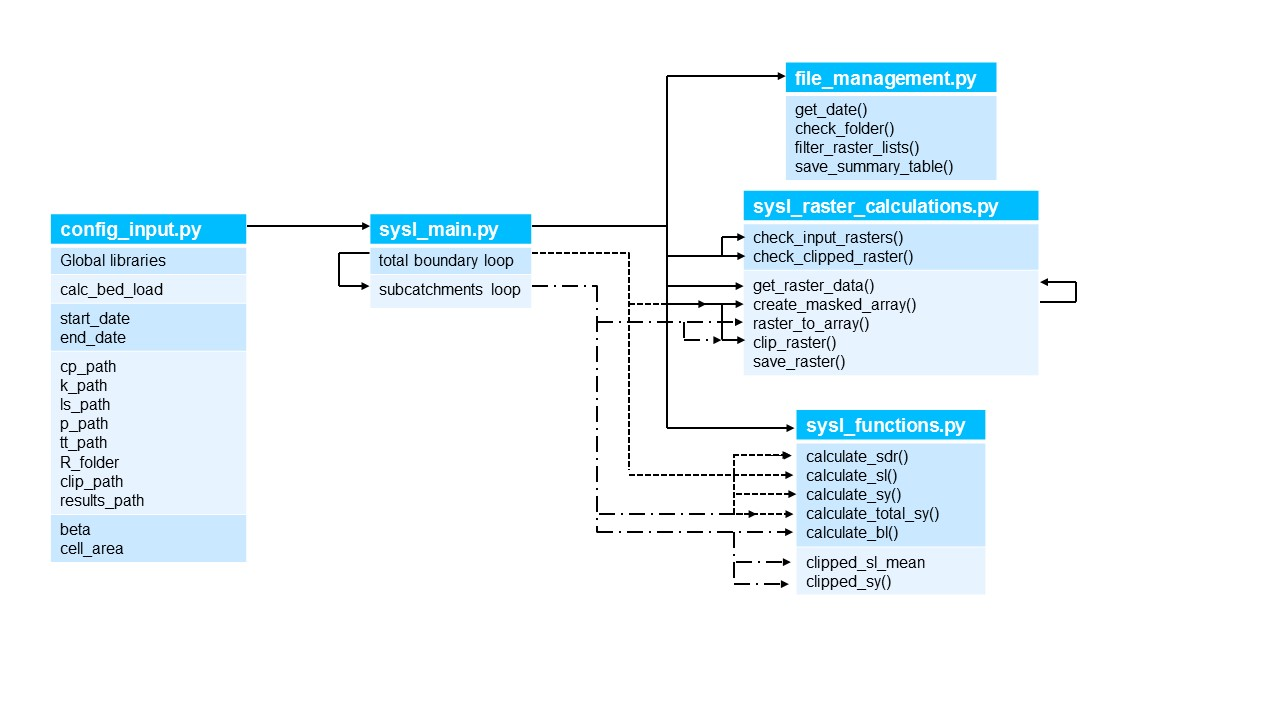
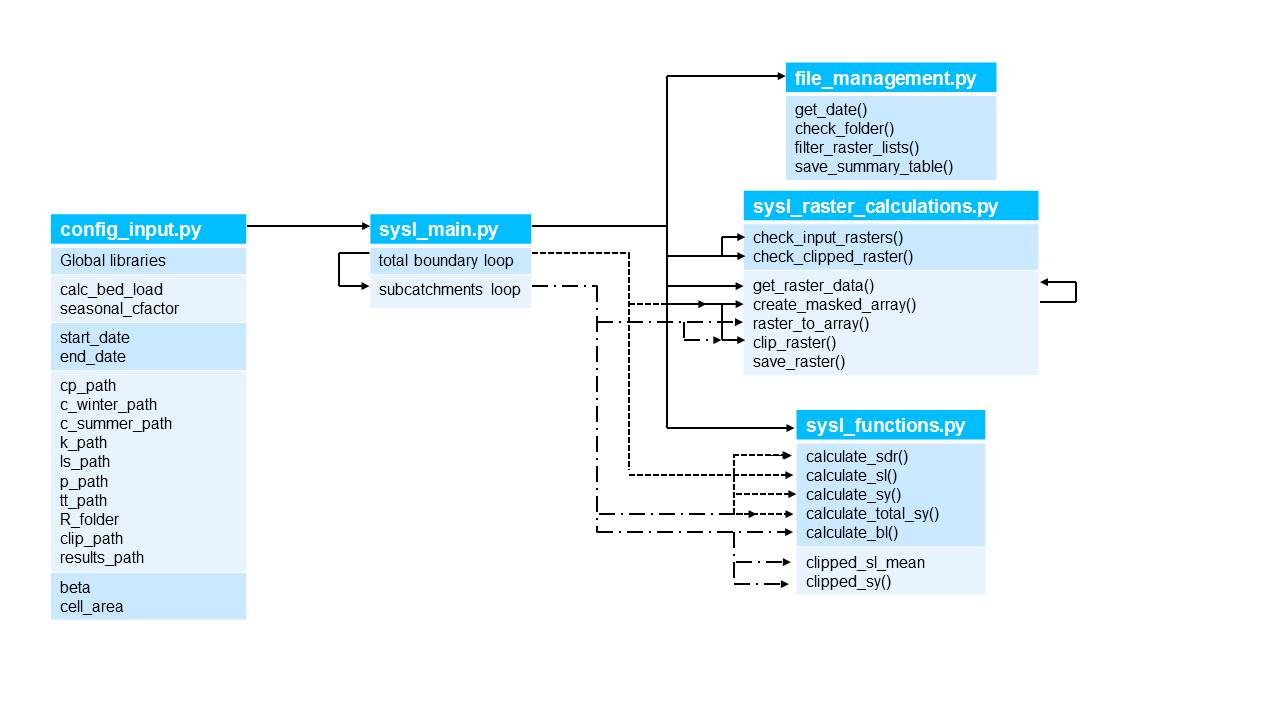
minor updates readme, documentation

diff --git a/config.py b/config.py
@@ -32,6 +32,8 @@ and added to the results table for each subcatchment.
 * Input rasters:
     *All rasters must have the same extent, pixel size (resolution) 
 - cp_path: string, path for the land cover factor (.tif format)
+- c_winter_path: string, path for the seasonal land cover factor (.tif format; if seasonal_cfactor = True)
+- c_summer_path: string, path for the seasonal land cover factor (.tif format; if seasonal_cfactor = True)
 - k_path: string, path for the soil erodibility factor (.tif format)
 - ls_path: string, path for the slope length and steepness factor (.tif format)
 - p_path: string, path for the support practice factor (.tif format)
@@ -63,26 +65,26 @@ calc_bed_load = True
 seasonal_cfactor = True
 
 # Import input rasters:
-k_path = r'Y:\Abt1\hiwi\Oreamuno\SY_062016_082019\Rasters\kfac_st_snap.tif'
-ls_path = r'Y:\Abt1\hiwi\Oreamuno\SY_062016_082019\Rasters\LS_V11b.tif'
-p_path = r'Y:\Abt1\hiwi\Oreamuno\SY_062016_082019\Rasters\p_factor.tif'
-tt_path = r'Y:\Abt1\hiwi\Oreamuno\SY_062016_082019\Rasters\traveltime_final_h_snap.tif'
+k_path = r''
+ls_path = r''
+p_path = r'
+tt_path = r''
 
 if seasonal_cfactor:
     print('Seasonal C factor')
-    c_winter_path = r'P:\aktiv\2018_DLR_DIRT-X\300_Modelling\310_Models\01_Erosion_model\18b_SeasonalC_runs\Rasters\C_winter_resampled.tif'
-    c_summer_path = r'P:\aktiv\2018_DLR_DIRT-X\300_Modelling\310_Models\01_Erosion_model\18b_SeasonalC_runs\Rasters\C_summer_resampled.tif'
+    c_winter_path = r''
+    c_summer_path = r''
 else:
-    cp_path = r'Y:\Abt1\hiwi\Oreamuno\SY_062016_082019\Rasters\Cp_Mean_snap.tif'
+    cp_path = r''
 
 # Rfactor rasters:
-r_folder = r'P:\aktiv\2018_DLR_DIRT-X\300_Modelling\310_Models\01_Erosion_model\18_SY_052016_042018\Modified_R_new_snowdetection\daily_input_final'
+r_folder = r''
 
 # Clipping shape:
-clip_path = r'Y:\Abt1\hiwi\Oreamuno\SY_062016_082019\Clipping_Shapes'
+clip_path = r''
 
 # Results:
-results_path = r'C:\Users\Mouris\Desktop\SY_SL_Calculation_Git\results'
+results_path = r''
 
 # Calculation constants:
 beta = 0.5639

diff --git a/README.md b/README.md
@@ -21,26 +21,29 @@ The following input variables must be specified to run the code:
 
 ### General specifications
 
-| Input argument | Type | Description |
-|-----------------|------|-------------|
+| Input argument | Type | Description                                           |
+|-----------------|------|-------------------------------------------------------|
 |`start_date`| STRING | Determines time interval for analysis (format: YYYYMM) |
-|`end_date`| STRING | Determines time interval for analysis (format: YYYYMM)  |
-|`calc_bed_load`| BOOLEAN | Optional bed load guesstimation  |
-|`results_path`| STRING |Path of the main result folder|
-|`beta`| FLOAT |catchment-specific beta parameter for the SEDD model|
-|`pixel_area`| FLOAT |pixel area (ha)|
+|`end_date`| STRING | Determines time interval for analysis (format: YYYYMM) |
+|`calc_bed_load`| BOOLEAN | Optional bed load guesstimation                       |
+|`seasonal_cfactor`| BOOLEAN | Optional use of seasonal C factor                     |
+|`results_path`| STRING | Path of the main result folder                        |
+|`beta`| FLOAT | catchment-specific beta parameter for the SEDD model  |
+|`pixel_area`| FLOAT | pixel area (ha)                                       |
 
 ### Input raster and shape files
 
-| Input argument | Type | Description |
-|-----------------|------|-------------|
-|`cp_path`| STRING | path for the land cover and management factor (.tif format) |
-|`k_path`| STRING | path for the soil erodibility factor (.tif format)  |
-|`ls_path`| STRING | path for the slope length and steepness factor (.tif format)  |
-|`p_path`| STRING | path for the support practice factor (.tif format)  |
-|`tt_path`| STRING | path for the travel time raster (.tif format)  |
-|`r_folder`| STRING | path to the 'monthly' R factor rasters (.tif, date information must be included in the format YYYYMM)  |
-|`clip_path`| STRING | path to the subcatchment shapes (format: Catchment_NAME.shp)  |
+| Input argument | Type | Description                                                                                           |
+|-----------------|------|-------------------------------------------------------------------------------------------------------|
+|`cp_path`| STRING | path for the land cover and management factor (.tif format)                                           |
+|`c_winter_path`| STRING | path for the land cover and management factor in the winter months (.tif format)                      |
+|`c_summer_path`| STRING | path for the land cover and management factor in the summer months (.tif format)                      |
+|`k_path`| STRING | path for the soil erodibility factor (.tif format)                                                    |
+|`ls_path`| STRING | path for the slope length and steepness factor (.tif format)                                          |
+|`p_path`| STRING | path for the support practice factor (.tif format)                                                    |
+|`tt_path`| STRING | path for the travel time raster (.tif format)                                                         |
+|`r_folder`| STRING | path to the 'monthly' R factor rasters (.tif, date information must be included in the format YYYYMM) |
+|`clip_path`| STRING | path to the subcatchment shapes (format: Catchment_NAME.shp)                                          |
 
 Please note: All raster files must have the same extent and pixel size (resolution).
 
